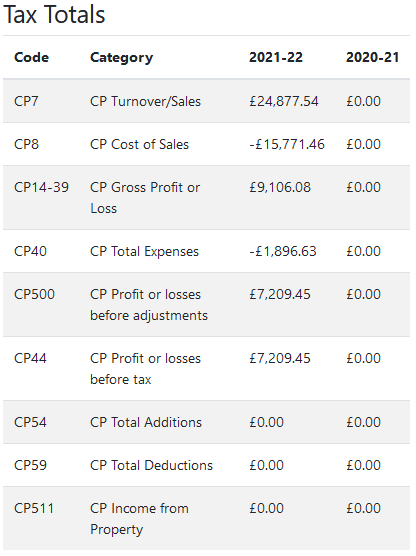
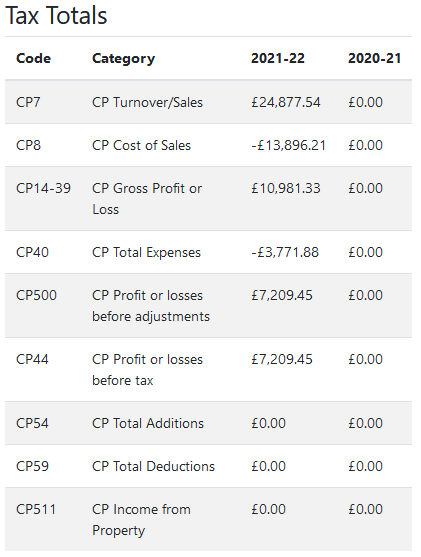
accounts filing
How to file company accounts

diff --git a/_includes/header.html b/_includes/header.html
@@ -55,6 +55,7 @@
             <li><a href="/tutorials/cash-codes">Classifying cash transactions</a></li>
             <li><a href="/tutorials/cash-book">Accounts and Invoicing</a></li>
             <li><a href="/tutorials/balance-sheet">How to generate a Balance Sheet</a></li>
+            <li><a href="/tutorials/accounts-filing">Filing Company Accounts</a></li>
             <li role="separator" class="divider"></li>
             <li><a href="/tutorials/services">Business System overview</a></li>
             <li><a href="/tutorials/manufacturing">Modelling a Bill of Materials</a></li>

diff --git a/tutorials/accounts-filing.md b/tutorials/accounts-filing.md
@@ -1,0 +1,134 @@
+---
+layout: page
+title: Filing Company Accounts
+permalink: /tutorials/accounts-filing
+---
+
+Describing why and how to file your company accounts.
+
+## Index
+
+- [Why file your own accounts?](#why-file-your-own-accounts)
+- [Make Tax Digital service](#make-tax-digital)
+- [Instructions](#instructions)
+- [Government Gateway](#government-gateway)
+- [Creating a submission](#company-tax-return)
+- [Company Accounts](#company-accounts)
+- [Corporation Tax Computation](#corporation-tax)
+
+## Background
+
+### Why File Your Own Accounts?
+
+It is understandable that those who have spent a great deal of time and effort on building up their business are both conservative and cautious, especially about tax. However, filing your company accounts without the mediation of rented software from banks and accountants is no big deal. It used to be, but [that is no longer the case]({{ site.url }}/accounts#tax-law). Here are a few reasons why adopting this free, open-source system is very low risk.
+
+- Even if you have an accountant, still you must do your books. The application provides meticulous records of all financial transactions in a form from which traditional accounts are easily derived.  Therefore, at last resort, you can always [register an accountant as a user]({{ site.url }}/tutorials/installing-web#registrations), and they will have everything they need to produce accounts in the traditional way.  However, it should never come to that!
+- If you use [the HMRC template]({{ site.url }}/tutorials/installing-web#start-up) as a basis for classifying transactions, there is a [one-to-one correspondence]({{ site.url }}/tutorials/cash-book-web#finalised-accounts) between the codes in your accounts and box references in the government portal.  That makes data-entry an easy process.
+- Replacing the asset-based recording system of accountants with a [production-based supply versus demand model]({{ site.url }}/about#design) means capital and tax are algorithmically derived. Because there is no double-entry, there is no need for a Trial Balance. It always balances on every transaction, and this is reflected in the bank balance and money owing at any given time. These are two things [that every businessperson knows]({{ site.url }}/accounts#error-checking) and can objectively verify. In the unlikely event of a government audit, you simply and confidently supply your bank statements, register them as a user, and they can check it all adds up, replicating what the SvD algorithms are already doing. 
+- The government give you nine months to get your act together.  Because transaction entry points are flexible In Accounts Mode, you could leave it to the last minute if you like. However, Trade Control is a production system, and, in this mode, you must operate in real time: to preserve the integrity of the [Company Statement]({{ site.url }}/tutorials/manufacturing#company-statement), [model what-if scenarios]({{ site.url }}/tutorials/manufacturing#pricing-and-scheduling) and process your [ongoing order book]({{ site.url }}/tutorials/manufacturing#project-schedule). Not only will you know what tax you are obliged to pay, but what you will or might pay in the future from your projected funds, and this constantly updates with every transaction made. Therefore, at any given point, including year-end, your accounts are already complete. Then you have a further nine months to tweak and post the figures.
+- Accountancy practice has evolved at the behest of external public or private shareholders who want to know how much money they can skim off a productive resource without killing it off. Governments have enacted laws to enforce these methods, because they can graft taxes onto the extraction process and get a slice of the pie.  That is why the self-employed often do not even look at the year-end accounts they pay so much for, because traditional accounts have no operational significance, and they are not interested in exploiting themselves. Transferring responsibility for your finances from the instruments of corporate power to yourself can only increase your understanding of the financial drivers that underpin your business, improving decision making whilst saving costs.
+- Doing the accounts yourself does not preclude a personal tax advisor, should you need one.
+- Trade Control is an open-source application that you can [download from GitHub](https://github.com/tradecontrol) and store locally. No matter what happens in the future, you can always replicate the environment without cost or licence fees.
+- You can [get up and running]({{ site.url }}/tutorials/installing-web#web-hosting) on a reliable and secure website for 1 GBP/pcm. [All other costs are optional](https://www.tradecontrol.online/pricing). You will be able to access your business data from any device, anywhere in the world.
+
+## Make Tax Digital
+
+If you are currently renting an accounting package from a bank or accountancy software provider, it is likely that they will be posting the figures to HRMC via the government's Make Tax Digital (MTD) service. This is a web service that offers an automated interface between a private computer program and the government tax system. Your tax requirements are therefore concealed behind the provider's private application and responsibility to collect the correct information is delegated to them. To take responsibility for your own finances requires bypassing this MTD interface and obtaining a direct connection with the tax system through the Government Gateway. It will inform you whenever tax law changes and provide itemised, context sensitive help for every obligation and deduction.
+
+When your turnover is above a certain threshold (currently GBP 80K), you are now legally obliged to submit your VAT returns through the MTD web service, therefore forcing you to use a private package. In 2022, the existing VAT return system in the gateway will be disabled and all vat registered companies will be forced down the same path. The reason for this constraint is unknown, although it will further benefit the financial services sector by marshalling every productive business to operate through their systems.  To counter, we use a [simple and cost-effective intermediary]({{ site.url }}/tutorials/digital-tax) which works well enough. With sufficient commercial support, we could code a free interface to the VAT MTD service for you.
+
+# Instructions
+
+## Requirements
+
+The following walk-through presents the accounts generated from these two tutorials:
+
+- [Accounts Tutorial]({{ site.url }}/tutorials/cash-book-web)
+- [Balance Sheet]({{ site.url }}/tutorials/balance-sheet-web)
+
+You can replicate the process using the [P&L and Balance Sheet]({{ site.url }}/tutorials/balance-sheet-web#review-5) on your phone, or by [generating a Trade Statement]({{ site.url }}/docs/tc_accounts_hmrc.xlsx) using Office 365.
+
+## Government Gateway
+
+For this submission, we are going to use the tax account of Trade Control Ltd, whose period end is 31st March. Obviously, we are not going to post this, because it is fictitious, but the process for entering factual data is identical. 
+
+### Companies House
+
+Every company in the UK is registered with Companies House. Each year you must complete an Annual Return, describing the structure of the company. You also present company accounts, to communicate the financial position in terms of capital.  You can submit the accounts to Companies House directly, but you do not need to do that anymore. Instead, you should use the Government Gateway.
+
+### Tax Services
+
+In addition to Companies House, a limited company registers for access to the government portal or gateway. Your home page shows the services you have added and activated. 
+
+![Government Gateway]( {{ site.url}}/images/filing_hmrc_services.png)
+
+The key schemes are [PAYE]({{ site.url }}/accounts#paye), VAT (if registered) and corporation tax. Here, we focus on the latter.
+
+## Company Tax Return
+
+A new submission requires both the Companies House accounts and an HMRC tax return. The accounts consist of a balance sheet and P&L. The tax return consists of the tax calculation itself and various ad hoc data collected by the government during the entry process. Because we used the HMRC template to work through the tutorial, we just enter each amount using the corresponding code. If you use your own cash codes and categories, you may need to add specific totals to satisfy the government's data-collection needs. 
+
+Firstly, create a new submission:
+
+ ![create submission]({{ site.url }}/images/filing_01_create_submission.png) 
+
+Then answer the standard questions and make sure you select the option below:
+
+![filing type]({{ site.url }}/images/filing_02_filing_type.png)
+
+## Company Accounts
+
+![companies house]({{ site.url }}/images/filing_03_companies_house.png)
+
+If you can answer yes to the questions below, you are eligible for micro-accounts, which just means you can communicate less information to Companies House. 
+
+![about the company]({{ site.url }}/images/filing_04_micro_accounts.png)
+
+The tutorial qualifies, so for brevity we are going to select that.
+
+![accounts type]({{ site.url }}/images/filing_05_accounts_type.png)
+
+Now you can enter the Profit and Loss values, which correspond to the [P&L on your phone]({{ site.url }}/tutorials/balance-sheet-web#profit-and-loss-account) or [Trade Statement]({{ site.url }}/accounts#365).
+
+> A few things to note - there is context sensitive help for every single entry; the portal is bang up to date with the latest requirements (Covid); and you can contact HMRC directly with any codes you are uncertain about. 
+
+![profit and loss]({{ site.url }}/images/filing_06_profit_and_loss.png)
+
+Because we are presenting micro-accounts, we need to aggregate [the full balance sheet]({{ site.url }}/docs/tc_accounts_hmrc.xlsx). You just take out fixed assets and share capital and add up the remaining values to obtain current assets:
+
+![balance sheet]({{ site.url }}/images/filing_07_balance_sheet.png)
+
+Finally, you approve your accounts, and HMRC generate a PDF document that they send to Companies House after submission.
+
+![accounts approval]({{ site.url }}/images/filing_08_accounts_approval.png)
+
+## Corporation Tax
+
+To enter the values associated with the tax computation, use the codes that begin with **CP**. From the web app, scroll to the [company tax totals]({{ site.url }}/tutorials/balance-sheet-web#company-tax-totals) and select details to view the full listing. To simplify the entry, we have moved the Assets - Net Profit category (**TC-ASSETNP**) from Total Expenses (**CP40**) into the Cost of Sales (**CP8**). Otherwise we would need to split out depreciation from the asset account balance.
+
+![start computations]({{ site.url }}/images/filing_09_start_computations.png)
+
+Work through the screens entering in the **CP** values.
+
+![general expenses]({{ site.url }}/images/filing_10_expenses.png)
+
+Make sure the detailed P&L profit figure matches that presented to Companies House.
+
+![profit and loss]({{ site.url }}/images/filing_11_profit_and_loss.png)
+
+### Losses Carried Forward
+
+Because Trade Control algorithms are based on Supply v Demand, losses are automatically carried forward on the [Company Tax Statement]({{ site.url}}/tutorials/balance-sheet-web#company-tax). However, because accounting is based on calculating increases in asset value over financial periods, this is not the case in traditional accounting practice. You therefore must make a separate claim against tax on profits by carrying forward losses. The **Losses C/F** button will inform you how much loss, if any, you can offset against profits made during the financial year. 
+
+![losses carried forward]({{ site.url }}/images/filing_12_losses_carried_forward.png)
+
+## Submission
+
+Your submission is saved in the government portal, and you can work on it over the nine-month window until it is ready to submit. There are various sections that we have not covered, but they are all self-explanatory and consistently updated to reflect current tax law.   
+
+## Licence
+
+Trade Control Documentation by Trade Control Ltd is licenced under a [Creative Commons Attribution-ShareAlike 4.0 International License](http://creativecommons.org/licenses/by-sa/4.0/) 
+
+![Creative Commons](https://i.creativecommons.org/l/by-sa/4.0/88x31.png)
+

diff --git a/accounts/index.md b/accounts/index.md
@@ -8,6 +8,7 @@ permalink: /accounts
 
 ## Documentation
 
+- [Why file your Company Accounts]({{ site.url }}/tutorials/accounts-filing#why-file-your-own-accounts)
 - [Accounts Tutorial]({{ site.url }}/tutorials/cash-book)
 - [ASP.NET Core Web App Setup]({{ site.url }}/tutorials/installing-web)
 - [Single User 365 Installation]({{ site.url }}/tutorials/installing-local)
@@ -29,11 +30,7 @@ If you run this calculation, you will see just how much turnover you need to fin
 
 ### Tax Law
 
-In recent years, HMRC have made great strides in their Make Tax Digital (MTD) initiative and Government Gateway service. Each business is provided with a key to their government gateway, and from the portal you can register for various services. The three relevant services for your accounts are VAT, PAYE and the Corporation Tax Return. After registering, the Inland Revenue post the activation keys and you can interact with these services in a very intuitive way. Therefore, you do not need to read up on the latest tax law, because it is reflected live in the portal interfaces. Unlike times of yore, the best tax advisor is now the taxman. 
-
-Here is a sample home screen:
-
-![Government Gateway]( {{ site.url}}/images/accounts_hmrc.png)
+In recent years, HMRC have made great strides in their Make Tax Digital (MTD) initiative and [Government Gateway]({{ site.url }}/tutorials/accounts-filing#government-gateway) service. Each business is provided with a key to their government gateway, and from the portal you can register for various services. The three relevant services for your accounts are VAT, PAYE and the Corporation Tax Return. After registering, the Inland Revenue post the activation keys and you can interact with these services in a very intuitive way. Therefore, you do not need to read up on the latest tax law, because it is reflected live in the portal interfaces. Unlike times of yore, the best tax advisor is now the taxman. 
 
 #### PAYE
 
@@ -41,7 +38,7 @@ In the past, to process PAYE it was necessary either to buy payroll software or 
 
 #### VAT
 
-Vat is automatically calculated from VAT Codes and presented in the [Invoice Statement]({{ site.url }}/tutorials/balance-sheet-web#vat). Prior to 2019, a business could enter this information directly into the VAT section of the portal. For some reason, the legislation was changed such that entry could only be made by MTD approved third party private software. Trade Control uses a low-cost [CSV import website]({{ site.url }}/tutorials/digital-tax) to address the issue. At some point this will be replaced with its own access if the law is not repealed.
+Vat is automatically calculated from VAT Codes and presented in the [Invoice Statement]({{ site.url }}/tutorials/balance-sheet-web#vat). Prior to 2019, a business could enter this information directly into the VAT section of the portal. For some reason, [the legislation was changed]({{ site.url }}/tutorials/accounts-filing#make-tax-digital) such that subscribers with turnover above the VAT Threshold must enter their VAT return by MTD approved third party private software. Trade Control currently uses a low-cost [CSV import website]({{ site.url }}/tutorials/digital-tax) to work around the issue.
 
 #### Company Tax Return
 

diff --git a/tutorials/balance-sheet-web.md b/tutorials/balance-sheet-web.md
@@ -13,7 +13,7 @@ permalink: /tutorials/balance-sheet-web
 - [Current Assets](#current-assets)
 - [Fixed Assets](#fixed-assets)
 - [Long-term liabilities](#long-term-liabilities)
-- [Accounts Review](#accounts-review)
+- [Accounts Review](#review-5)
 - [Petty Cash](#cash-box)
 - [VAT](#vat)
 - [Company Tax](#company-tax)
@@ -217,7 +217,7 @@ If the company has made losses in previous financial years, the Company Tax stat
 
 ## Filing
 
-Follow the instructions for [filing company accounts]({{ site.url }}/tutorials/accounts-filing)
+Follow the instructions for [filing company accounts]({{ site.url }}/tutorials/accounts-filing#instructions)
 
 ## Licence
 

diff --git a/tutorials/overview.md b/tutorials/overview.md
@@ -39,6 +39,7 @@ The Experimental tutorials cover supply-chain scheduling and bitcoin as UOA. Of 
 - [Classifying cash transactions]({{ site.url}}/tutorials/cash-codes)
 - [Accounts and invoicing]({{ site.url}}/tutorials/cash-book)
 - [How to generate a Balance Sheet]({{ site.url}}/tutorials/balance-sheet)
+- [Filing your Company Accounts]({{ site.url}}/tutorials/accounts-filing)
 - [Business System Overview]({{ site.url}}/tutorials/services)
 - [Modelling a Bill of Materials]({{ site.url}}/tutorials/manufacturing)
 

diff --git a/tutorials/balance-sheet-365.md b/tutorials/balance-sheet-365.md
@@ -313,6 +313,10 @@ When completed, the full Trade Statement should look like the Advanced worksheet
 
 ![Balance Sheet]({{ site.url }}/images/balance_sheet_full.png)
 
+## Filing
+
+Follow the instructions for [filing company accounts]({{ site.url }}/tutorials/accounts-filing#instructions)
+
 ## Licence
 
 Trade Control Documentation by Trade Control Ltd is licenced under a [Creative Commons Attribution-ShareAlike 4.0 International License](http://creativecommons.org/licenses/by-sa/4.0/) 

diff --git a/tutorials/cash-book-web.md b/tutorials/cash-book-web.md
@@ -10,7 +10,7 @@ The web app detects the device upon which it is running. In this tutorial we wil
 
 ### Instructions
 
-- [System Initialisation](#initialisation)
+- [System Initialisation](#setup)
 - [Going Concerns](#going-concerns)
 - [Injecting Capital](#capital-injection)
 - [Account Transfers](#account-transfers)
